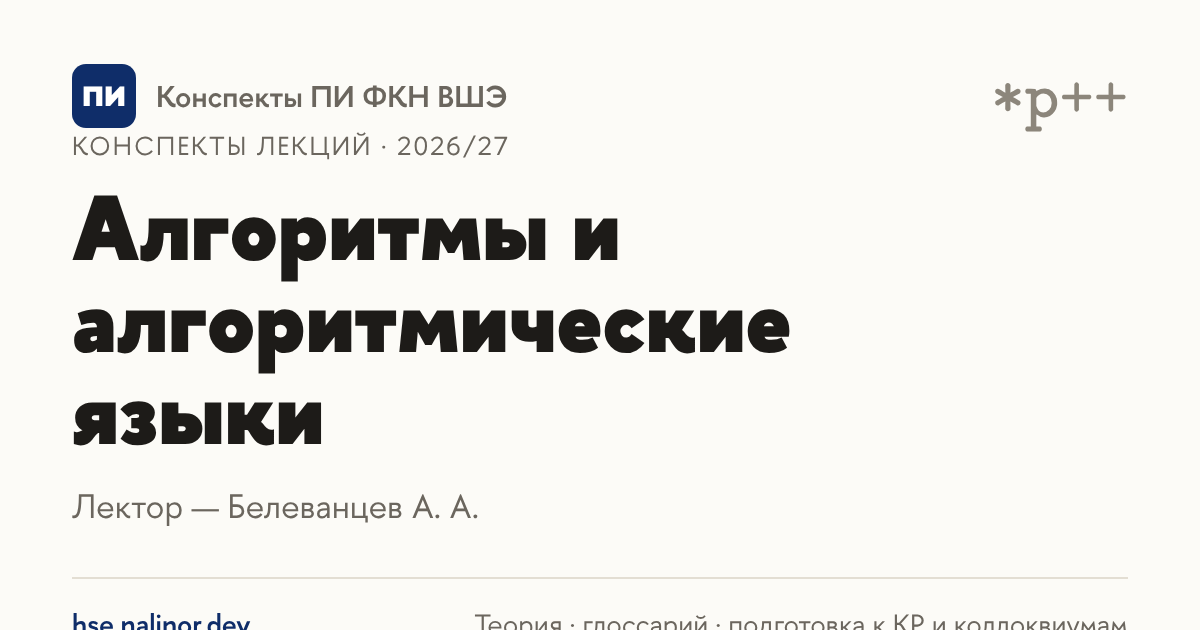
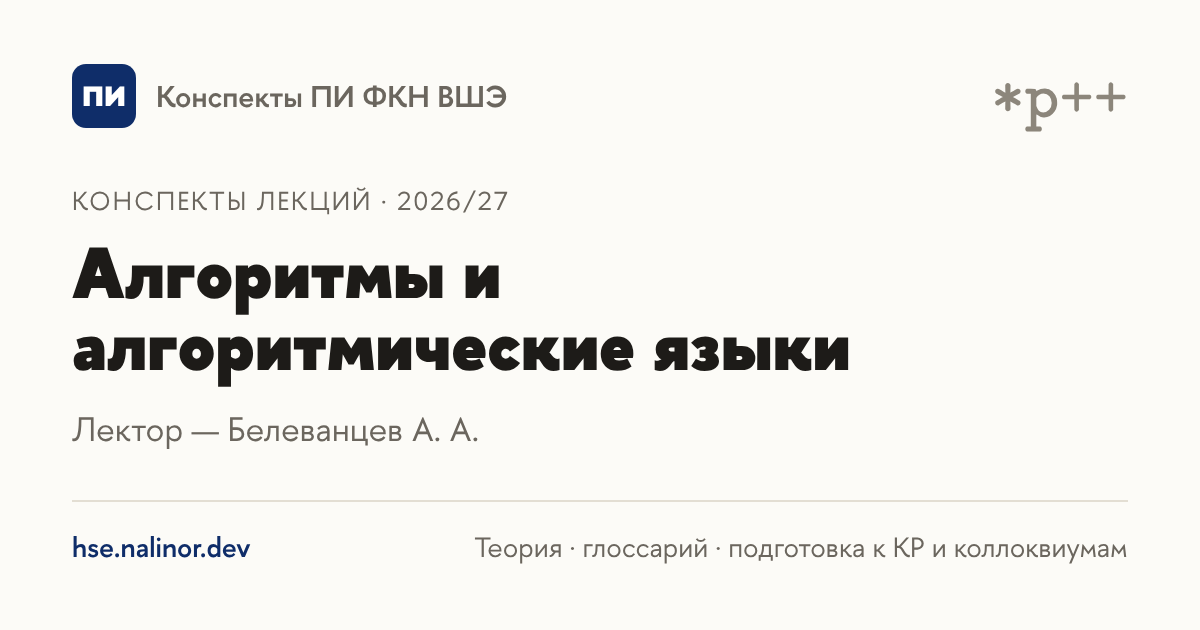
Address review of aiya lecture 1 and the course integration
Lecture 1: fix the dating of Markov's algorithms, prove that unary symbol codes
need a separator, define dashes in machine tables, state the start and result
conventions, mention prefix codes, trim the context. Site: fit the long course
name on its preview card, list the new course in the site description, lay the
course cards out two by two, smoke-test the aiya pages after deploy.

Claude-Session: https://claude.ai/code/session_012GQdQPiU8jX3QxKoTS38zK

diff --git a/web/index.html b/web/index.html
@@ -3,7 +3,7 @@
   <head>
     <meta charset="utf-8" />
     <meta name="viewport" content="width=device-width, initial-scale=1" />
-    <meta name="description" content="Конспекты лекций 1 курса ПИ ФКН ВШЭ 2026/27: алгебра, математический анализ, дискретная математика. Теория, глоссарий, подготовка к контрольным и коллоквиумам, PDF." />
+    <meta name="description" content="Конспекты лекций 1 курса ПИ ФКН ВШЭ 2026/27: алгебра, математический анализ, дискретная математика, алгоритмы и алгоритмические языки. Теория, глоссарий, подготовка к контрольным и коллоквиумам, PDF." />
     <meta name="color-scheme" content="light dark" />
     <meta name="theme-color" content="#fcfbf7" media="(prefers-color-scheme: light)" />
     <meta name="theme-color" content="#1a1916" media="(prefers-color-scheme: dark)" />
@@ -11,7 +11,7 @@
     <meta property="og:locale" content="ru_RU" />
     <meta property="og:site_name" content="Конспекты ПИ ФКН" />
     <meta property="og:title" content="Конспекты ПИ ФКН" />
-    <meta property="og:description" content="Конспекты лекций 1 курса ПИ ФКН ВШЭ 2026/27: алгебра, математический анализ, дискретная математика. Теория, глоссарий, подготовка к контрольным и коллоквиумам, PDF." />
+    <meta property="og:description" content="Конспекты лекций 1 курса ПИ ФКН ВШЭ 2026/27: алгебра, математический анализ, дискретная математика, алгоритмы и алгоритмические языки. Теория, глоссарий, подготовка к контрольным и коллоквиумам, PDF." />
     <title>Конспекты ПИ ФКН</title>
     <link href="%BASE_URL%favicon.svg" rel="icon" type="image/svg+xml" />
     <script>

diff --git a/web/scripts/og-images.ts b/web/scripts/og-images.ts
@@ -41,7 +41,7 @@ body {
 }
 .symbol { position: absolute; top: 58px; right: 72px; color: #8c867b; }
 .kicker { margin-top: auto; font-size: 26px; letter-spacing: 0.08em; text-transform: uppercase; color: #6b665e; }
-h1 { margin-top: 18px; max-width: 900px; font-size: 92px; line-height: 1; font-weight: 900; }
+h1 { margin-top: 18px; max-width: 900px; line-height: 1; font-weight: 900; }
 .note { margin-top: 26px; font-size: 34px; color: #6b665e; }
 footer {
   margin-top: 48px; padding-top: 26px; border-top: 2px solid #e3ded3;
@@ -59,9 +59,18 @@ type Card = {
   /** Font size of the symbol in px: the site card fits every course's symbol beside the brand. */
   readonly symbolSize?: number;
   readonly title: string;
+  /** Font size of the title in px: a long course name must fit in two lines. */
+  readonly titleSize?: number;
 };
 
-const html = ({ kicker, note, symbol, symbolSize = 54, title }: Card): string => `<!doctype html>
+const html = ({
+  kicker,
+  note,
+  symbol,
+  symbolSize = 54,
+  title,
+  titleSize = 92,
+}: Card): string => `<!doctype html>
 <html lang="ru"><head><meta charset="utf-8">
 <link rel="stylesheet" href="${fileUrl("../node_modules/katex/dist/katex.min.css")}">
 <style>${STYLE}</style></head>
@@ -69,7 +78,7 @@ const html = ({ kicker, note, symbol, symbolSize = 54, title }: Card): string =>
   <div class="brand"><span class="logo">ПИ</span>${SITE_NAME} ВШЭ</div>
   <div class="symbol" style="font-size: ${String(symbolSize)}px">${symbol}</div>
   <div class="kicker">${kicker}</div>
-  <h1>${title}</h1>
+  <h1 style="font-size: ${String(titleSize)}px">${title}</h1>
   <p class="note">${note}</p>
   <footer><b>hse.nalinor.dev</b><span>Теория · глоссарий · подготовка к КР и коллоквиумам</span></footer>
 </body></html>`;
@@ -79,6 +88,8 @@ const courseCard = (course: CourseInfo): Card => ({
   note: `Лектор — ${course.lecturer}`,
   symbol: tex(course.symbol),
   title: course.name,
+  // At 92px a title longer than ~25 characters takes three lines and pushes the footer off the card.
+  titleSize: course.name.length > 25 ? 72 : 92,
 });
 
 const siteCard: Card = {

diff --git a/web/src/features/home/home-hero.tsx b/web/src/features/home/home-hero.tsx
@@ -18,9 +18,9 @@ export const HomeHero = ({ courses, lectures, statements }: Props) => (
         Конспекты лекций, <em className="text-thm not-italic">которые интересно читать</em>
       </h1>
       <p className="mb-7.5 max-w-140 text-xl/relaxed text-ink/85">
-        Алгебра, матан и дискра первого курса ПИ: конспект на каждую лекцию. Внутри определения и
-        теоремы с номерами, доказательства, разобранные примеры и задачи с решениями, а у каждого
-        курса — сводка теории и глоссарий.
+        Алгебра, матан, дискра и АиАЯ первого курса ПИ: конспект на каждую лекцию. Внутри
+        определения и теоремы с номерами, доказательства, разобранные примеры и задачи с решениями,
+        а у каждого курса — сводка теории и глоссарий.
       </p>
       <dl className="flex flex-wrap gap-x-8.5 gap-y-5 border-t border-rule pt-6">
         {(

diff --git a/web/src/domain/seo.ts b/web/src/domain/seo.ts
@@ -9,7 +9,7 @@ import { type CourseId, findCourse } from "./courses.ts";
 export const SITE_NAME = "Конспекты ПИ ФКН";
 /** The same text is in `index.html`: the shell of the home page. */
 export const SITE_DESCRIPTION =
-  "Конспекты лекций 1 курса ПИ ФКН ВШЭ 2026/27: алгебра, математический анализ, дискретная математика. Теория, глоссарий, подготовка к контрольным и коллоквиумам, PDF.";
+  "Конспекты лекций 1 курса ПИ ФКН ВШЭ 2026/27: алгебра, математический анализ, дискретная математика, алгоритмы и алгоритмические языки. Теория, глоссарий, подготовка к контрольным и коллоквиумам, PDF.";
 /**
 The address search engines keep: always the production domain, also in PR previews (they must not
 compete with the site) and on a `<owner>.github.io/<repo>` deploy.

diff --git a/web/src/features/home/courses-section.tsx b/web/src/features/home/courses-section.tsx
@@ -16,7 +16,7 @@ export const CoursesSection = ({ lectures, preps, today }: Props) => (
     <div className="mb-7">
       <SectionTitle>Курсы</SectionTitle>
     </div>
-    <div className="grid gap-5 sm:grid-cols-2 lg:grid-cols-3">
+    <div className="grid gap-5 sm:grid-cols-2">
       {COURSES.map((course) => (
         <CourseCard
           course={course}

diff --git a/context/schedule.md b/context/schedule.md
@@ -24,6 +24,6 @@
 
 - Один конспект = одна лекция. Дата конспекта — дата **лекции**, не семинара (у матана семинар по теме идёт в следующую среду, в конспекте указывается пятница).
 - Номер лекции — её порядковый номер в реальном расписании. Если прогноз разошёлся с реальным темпом лектора, конспекты перенумеровываются (метки `lecNN` и все ссылки на них переводятся), а старые адреса сайта открывают лекцию с тем же номером (`markup.md` §1).
-- Нумерация лекций сквозная за учебный год: недели сессии и каникулы в неё не входят. После лекции 23 октября следующая (4 или 6 ноября) получает номер на единицу больше; первая лекция М3 продолжает нумерацию М2 (у алгебры, матана и дискретки — лекция 16). АиАЯ начинается в М2, поэтому его лекция 03.11.2026 — лекция 1, иначе номера и метки `lecNN` совпали бы с лекциями первого семестра.
+- Нумерация лекций сквозная за учебный год: недели сессии и каникулы в неё не входят. После лекции 23 октября следующая (4 или 6 ноября) получает номер на единицу больше; первая лекция М3 продолжает нумерацию М2 (у алгебры, матана и дискретки — лекция 16), иначе номера и метки `lecNN` совпали бы с лекциями первого семестра. АиАЯ начинается в М2, поэтому его лекция 03.11.2026 — лекция 1, а М3 продолжает его нумерацию.
 - Праздники и переносы сверяются с реальным расписанием (Google Calendar «Education» из HSE App X) до генерации. 4 ноября 2026 (среда) — День народного единства: лекция алгебры перенесена на четверг 5 ноября (календарь HSE; `date_exceptions` в `templates/courses.json`). Все даты М2 (до 18 декабря) подтверждены календарём HSE 30.10.2026. Событий М3 в календаре пока нет: даты М3 расчётные — те же дни недели, что в М2, с недели 11–15 января 2027 (праздники 31.12.2026–08.01.2027 — приказ ВШЭ об учебном графике 2026/27; 23.02 и 08.03 — вторник и понедельник: алгебры, матана и дискретки не задевают, а 23.02 у АиАЯ (вторник) лекции нет).
 - Конкретные даты и `week_id` всех лекций курса — в таблице «Расписание и план семестра» файла `context/courses/<course>.md`. Это единственный источник правды по датам. Изменилась дата — поправь её там, в front matter конспекта и, если нужно, в `date_exceptions`. Файл переименовывается вместе с датой: старые адреса сайт перенаправляет по номеру лекции (`markup.md` §1).

diff --git a/README.md b/README.md
@@ -1,6 +1,6 @@
 # hse-notes
 
-Конспекты лекций 1 курса ПИ ФКН ВШЭ, 2026/27: алгебра, математический анализ, дискретная математика.
+Конспекты лекций 1 курса ПИ ФКН ВШЭ, 2026/27: алгебра, математический анализ, дискретная математика, алгоритмы и алгоритмические языки.
 
 - Конспекты: `notes/<course>/<NN>_<mmmDD>_<slug>.md` — Pandoc Markdown с блоками определений, теорем, примеров и замечаний.
 - Теория курсов для подготовки к КР и коллоквиумам: `theory/<course>.md`.
